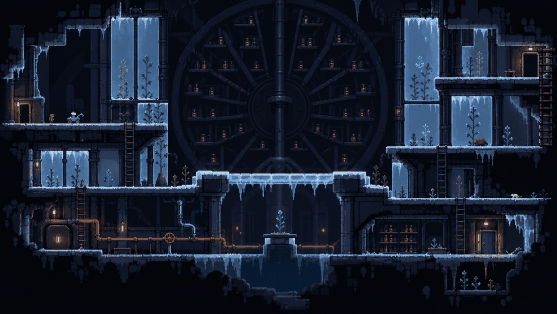
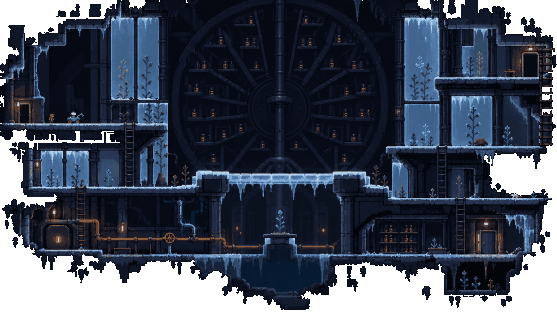
The Seed Vault stands in the cavern, not in a black box
The vault was drawn whole and opaque, so its painted near-black cave made a
hard black rectangle against the garden's cavern and soil. The build now
clears that cave, every pixel darker than 16 in each channel reached from an
edge, with any specks the cut leaves standing alone. The vault's walls, floors,
ladders and wheel stay as painted; the cavern shows round them and the game's
soil below the lowest floor. Collision and markers are unchanged.

Claude-Session: https://claude.ai/code/session_01Bn8QvfnRdeDuwsFSE9zobi

diff --git a/scripts/build-seed-vault.py b/scripts/build-seed-vault.py
@@ -8,7 +8,8 @@ floors. The run starts here, in the dark and the wet, and climbs out.
 Its people and doors are drawn a little smaller than the railway's, so it is
 brought to native pixels at 1/3 (557x314) rather than 1/4: Max, about 22 px
 tall, stands a head above the vault's keepers and fits its doors. The scene is
-used whole and opaque; it is its own cave.
+used whole; only the near-black cave it is painted in is cleared, so the
+garden's cavern and soil show round it.
 
 Collision is the floors it shows, all one-way so Max can jump up through them:
 the upper and middle floors on the left, the stone blocks and the ice bridge,
@@ -27,6 +28,7 @@ from pathlib import Path
 
 import numpy as np
 from PIL import Image
+from scipy import ndimage
 
 ROOT = Path(__file__).resolve().parent.parent
 SOURCE = ROOT / 'docs/asset-review/seed-vault-v1/source.png'
@@ -35,6 +37,8 @@ DATA = 'levels-v1/seed-vault.js'
 GARDEN = 1
 W, H = 557, 314
 GROUND = 253                    # the lowest floor is the garden's soil
+FRAME = 16                      # the painted cave around the vault: darker than this, reached from an edge
+SPECK = 24                      # opaque bits smaller than this left alone by the cut go too
 
 sys.path.insert(0, str(ROOT / 'scripts'))
 import kitlib  # noqa: E402
@@ -78,6 +82,21 @@ def build():
     x, y = LADDER[1], LADDER[2]
     m = ladder[..., 3] > 0
     art[y:y + h, x:x + w][m] = ladder[m]
+    return cut_frame(art)
+
+
+def cut_frame(art):
+    """Clear the near-black cave the scene is painted in, flood-filled from its edges,
+    so the vault stands in the garden's own cavern and soil instead of a black box.
+    Specks the cut leaves standing alone go with it."""
+    dark = art[..., :3].max(2) < FRAME
+    lab, _ = ndimage.label(dark)
+    edge = np.setdiff1d(np.concatenate([lab[0], lab[-1], lab[:, 0], lab[:, -1]]), [0])
+    cut = np.isin(lab, edge)
+    lab, n = ndimage.label(~cut, structure=np.ones((3, 3)))
+    sizes = ndimage.sum(np.ones_like(lab), lab, range(1, n + 1))
+    cut |= np.isin(lab, [i for i, s in enumerate(sizes, 1) if s < SPECK])
+    art[cut] = 0
     return art
 
 

diff --git a/CLAUDE.md b/CLAUDE.md
@@ -100,7 +100,7 @@ The enemy clock stays superlinear and unbounded; the team answers it the way Ris
 - `MaxStageLayout.create(stage, origin, ground, wet, seed)` generates gardens 1–19 and caches by stage and seed. Without a seed it returns the authored shape, which is also the fallback and the Crown.
 - The generator never calls `Math.random`. Every required ledge must stay reachable by a walking Bulwark (`tests/seeded-gardens.test.cjs`), and `tests/seeded-physics-*.test.cjs` jumps every hop of 20 seeds with all four classes. Change a reach rule only together with those tests.
 - `layout.nodes` holds each platform's capability tier (C0–C3) for loot placement.
-- The run starts at the bottom of a silo, dark and wet, and climbs out towards dusk. Gardens 1 and 2 are picture levels, the Seed Vault at the bottom and the Railway Ruins above it; every other garden is designed or generated. `stageLayout()` returns `pictureLayout(level)` for gardens 1 and 2 only (the owner first took the pictures out to get the old generated gardens back, then asked for the Railway Ruins as the first garden, then for the silo's bottom below it). `pictureLayout(n)` reads `window.MaxPictureLevels[garden]` from `levels-v1/*.js`: one painted art rectangle, 3 px rock blocks traced from it, one-way ledges the art already draws (`art: true`, never drawn again), markers and an `entry` that sits on the soil. Under the art the soil runs level at the entry height (`surfaceY` reads the layout's `ground`; `terrainY` is the rolling terrain). The Seed Vault is built by `scripts/build-seed-vault.py` from the owner's scene in `docs/asset-review/seed-vault-v1/` at 1/3 (its keepers and doors are drawn smaller than the railway's), whole and opaque, with one-way floors, the ice bridge, the pool's pedestal and rungs 17 px apart up each ladder. The Railway Ruins are built at Max's scale by `scripts/build-railway-ruins.py` from the owner's scene and kit sheets in `docs/asset-review/railway-ruins-v1/`: everything is painted at about 4× native, so the scene and the kits are brought down to native pixels (1/4, the machinery 1/8) and never drawn larger, the kit pieces are placed west and east of the scene with a role each (deck, tops, stair, ladder, back, decor), and placed pieces are clipped at the soil so the game's ground runs under the garden. `tests/picture-sweep.cjs` searches a picture with the real physics as a walking Bulwark; every marker must be reached, both ways across, no traps; the Sunken Sanctuary (`pictureLayout(21)`, `scripts/build-sunken-sanctuary.py`, from the concept sheet in `docs/asset-review/sunken-sanctuary-v1/`) waits outside the sequence for the bonus realms. `tests/picture-level.test.cjs` walks every class through both.
+- The run starts at the bottom of a silo, dark and wet, and climbs out towards dusk. Gardens 1 and 2 are picture levels, the Seed Vault at the bottom and the Railway Ruins above it; every other garden is designed or generated. `stageLayout()` returns `pictureLayout(level)` for gardens 1 and 2 only (the owner first took the pictures out to get the old generated gardens back, then asked for the Railway Ruins as the first garden, then for the silo's bottom below it). `pictureLayout(n)` reads `window.MaxPictureLevels[garden]` from `levels-v1/*.js`: one painted art rectangle, 3 px rock blocks traced from it, one-way ledges the art already draws (`art: true`, never drawn again), markers and an `entry` that sits on the soil. Under the art the soil runs level at the entry height (`surfaceY` reads the layout's `ground`; `terrainY` is the rolling terrain). The Seed Vault is built by `scripts/build-seed-vault.py` from the owner's scene in `docs/asset-review/seed-vault-v1/` at 1/3 (its keepers and doors are drawn smaller than the railway's), whole, with the near-black cave it is painted in cleared from the edges so the cavern and soil show round it, and with one-way floors, the ice bridge, the pool's pedestal and rungs 17 px apart up each ladder. The Railway Ruins are built at Max's scale by `scripts/build-railway-ruins.py` from the owner's scene and kit sheets in `docs/asset-review/railway-ruins-v1/`: everything is painted at about 4× native, so the scene and the kits are brought down to native pixels (1/4, the machinery 1/8) and never drawn larger, the kit pieces are placed west and east of the scene with a role each (deck, tops, stair, ladder, back, decor), and placed pieces are clipped at the soil so the game's ground runs under the garden. `tests/picture-sweep.cjs` searches a picture with the real physics as a walking Bulwark; every marker must be reached, both ways across, no traps; the Sunken Sanctuary (`pictureLayout(21)`, `scripts/build-sunken-sanctuary.py`, from the concept sheet in `docs/asset-review/sunken-sanctuary-v1/`) waits outside the sequence for the bonus realms. `tests/picture-level.test.cjs` walks every class through both.
 - Generated gardens draw their ledges and rock from the Sanctuary tile atlas: `tiles.js` and `assets/tiles-v1/` (built by `scripts/build-tiles.py` from `docs/asset-review/sanctuary-tiles-v1/`), passed to `MaxStageLayout.draw`; stone ledges are mossy strips with flora, branch and root ledges are planks, ruin ledges are lintels, rock is nine-sliced. Frost and ember gardens keep their baked snow and ember ledges (`MaxPlaces.ledgeArt`), and until the atlas loads the baked ledges stand in. Garden places and pictures keep their own art.
 - The underground gardens (1–10, the climb out of the silo) draw the cavern: five 180-tall layers in `assets/cavern-v1/` (far cave, stalactite ceiling, ruins on a far shore, a black lake, misty ruins in the water; built by `scripts/build-cavern-layers.py` from the owner's layers in `docs/asset-review/cavern-layers-v1/` and `coast-layers-v1/`) in place of the sky, moon, birds and clouds (`drawCavernLayers`, `CAVERN_LAYERS`). They are not in Figma yet: `assets/figma-pending.json` pins them (docs/figma.md, "Waiting for Figma").
 - Above ground, gardens without a biome backdrop draw one of two painted backdrops. The even ones and the Crown draw the Sanctuary backdrop: five 320×180 parallax layers in `assets/backdrop-v1/` (sky, band, mountains, ruins, forest; built by `scripts/build-backdrop.py` from `docs/asset-review/sanctuary-backdrop-v1/`), tiled with mirrored alternate tiles at the rates in `SANCTUARY_PAR`. The odd ones (1–9) draw the night forest: ten 180-tall wrapping layers in `assets/night-v1/`, sky to terrain (built by `scripts/build-night-layers.py` from the owner's layer sheet in `docs/asset-review/night-layers-v1/`, whose `layers/` keeps the clean full-width set), drawn by `drawNightLayers` at the rates in `NIGHT_LAYERS`; the moon stays put and the stars repeat up a tall sky. Frost and ember gardens keep their biome backdrops. Until the layers load the old sky and hills stand in (`tests/backdrop.test.cjs`).

diff --git a/docs/asset-review/seed-vault-v1/README.md b/docs/asset-review/seed-vault-v1/README.md
@@ -10,7 +10,7 @@ The vault's keepers and doors are drawn smaller than the Railway Ruins' people a
 
 ## Build
 
-`scripts/build-seed-vault.py` uses the scene whole and opaque, because it is its own cave.
+`scripts/build-seed-vault.py` uses the scene whole. It clears only the near-black cave the vault is painted in (darker than 16 in every channel, flood-filled from the edges, along with any specks the cut leaves standing alone), so the garden's cavern shows round the vault and the game's soil below it, and no black box stands in the garden.
 
 Collision is the floors it shows, all one-way so Max can jump up through them:
 
